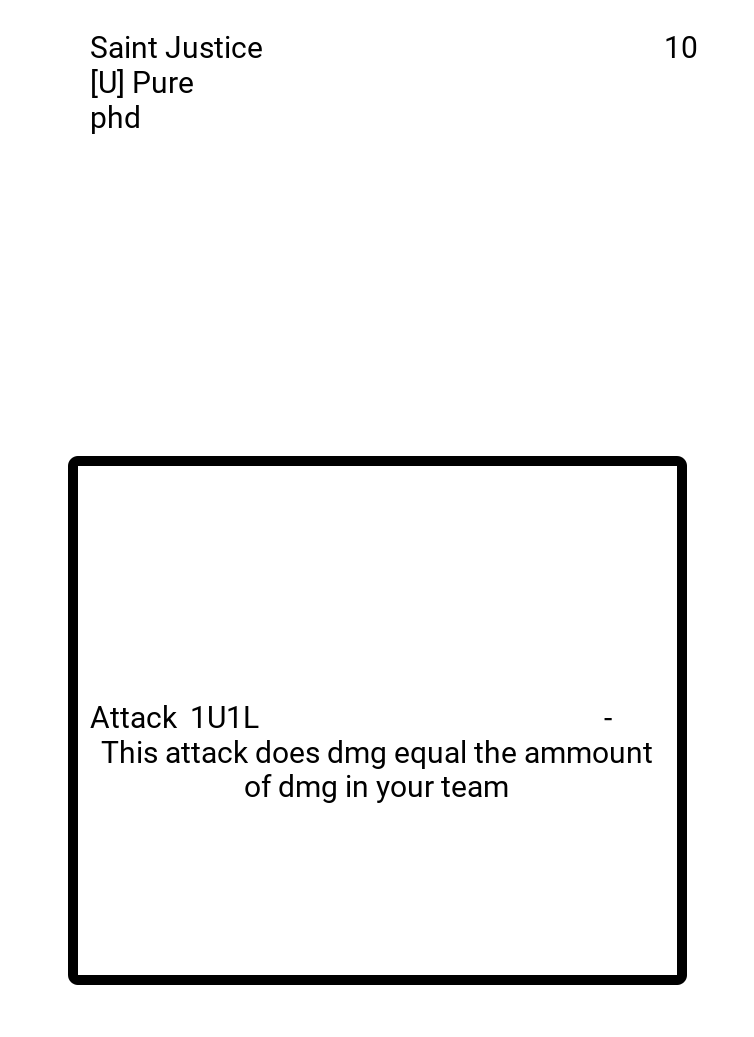
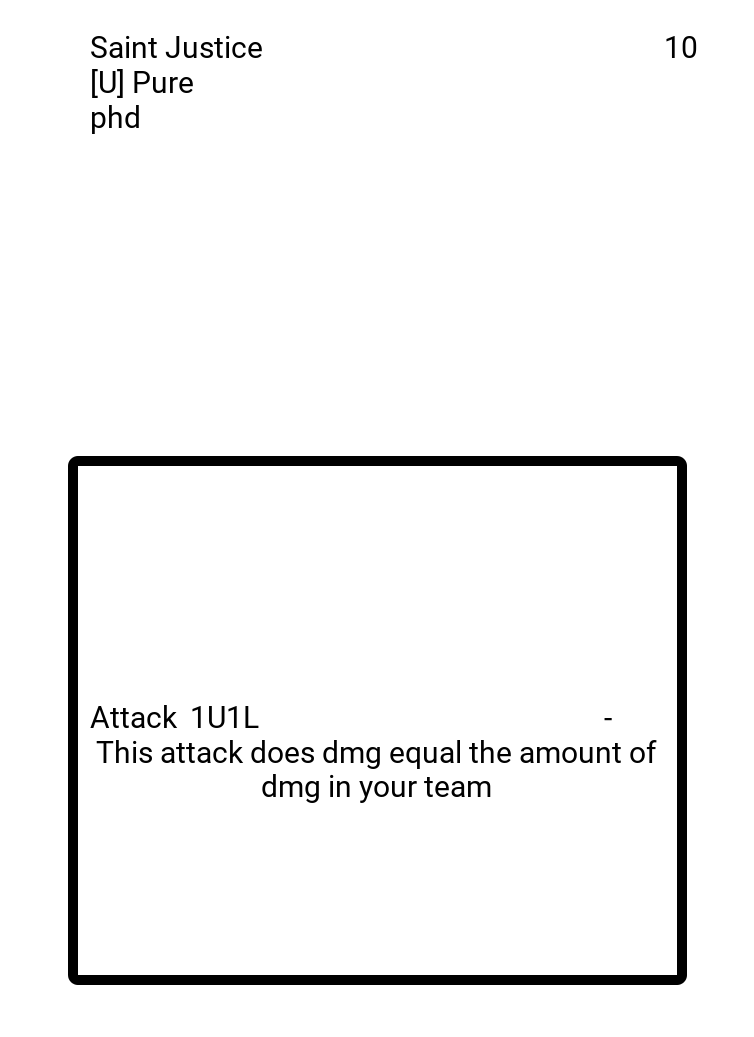
Improved english of cards

Changed region(s): [[0.122, 0.7097, 0.8846, 0.7715]]

diff --git a/builder.py b/builder.py
@@ -70,7 +70,7 @@ for index, row in df.iterrows():
     if row["type"] == "coin":
         img = Image.open('template/coin-template.png')
         print_card(img=img, name=row["public name"], type=row["type"], text_color=(0, 0, 0))
-    if row["type"] in ("[F] FPGA", "[P] PAT", "[U] Pure", "[Q] QRNG", "[S] Source", "[W] Weak"):
+    if row["type"] in ("[F] FPGA", "[P] PAT", "[U] Pure", "[Q] QRNG", "[S] Source", "[W] Weak", "[L] Luxor"):
         if row["grade"] == "phd":
             img = Image.open('template/phd-template.png')
         else:
